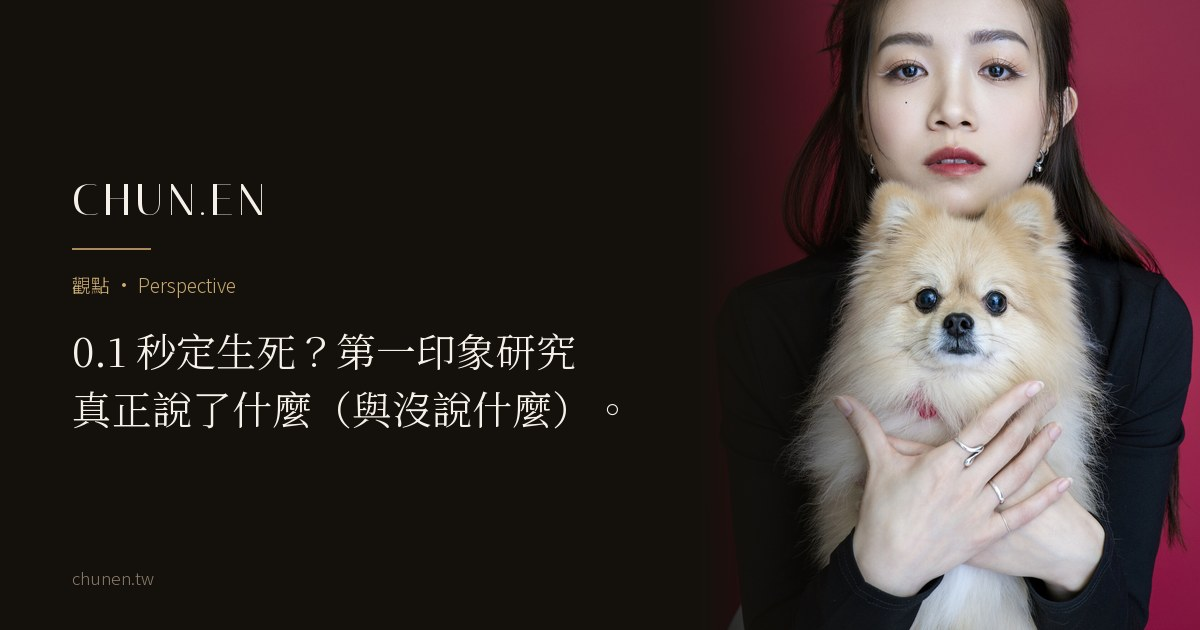
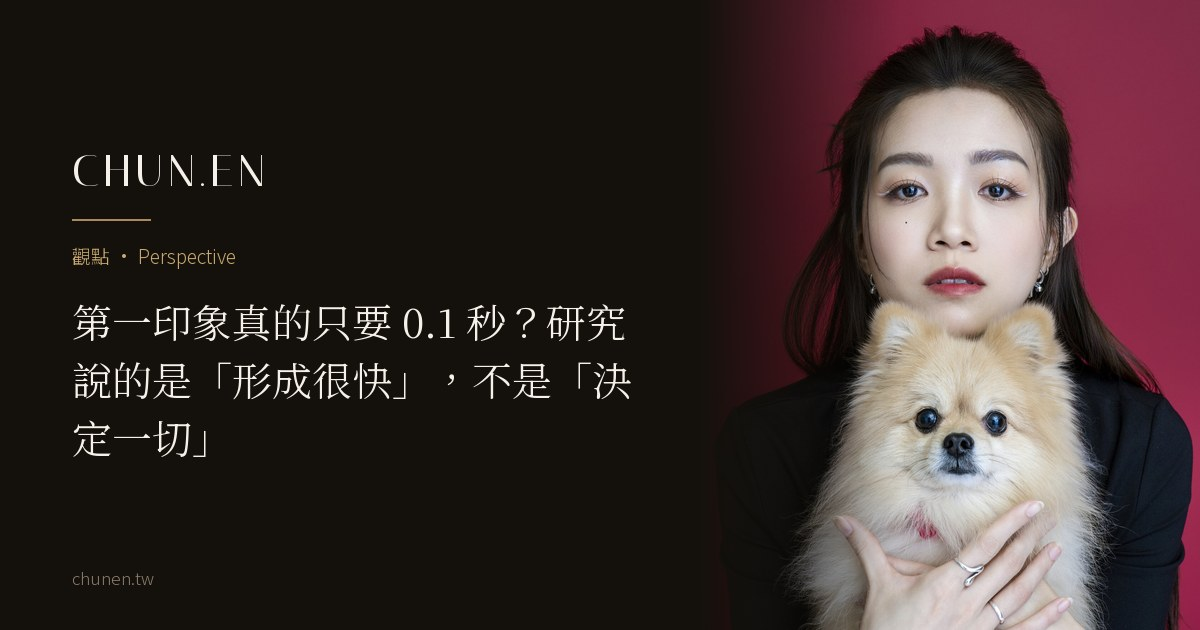
三篇換照片＋H1 斷行修＋第一印象內文白話化
- 真實溢價：hero 換 DSC09782（白棚留白坐姿，全幅）；H1 第二行 nowrap 分段
- 部署地圖：hero 換 DSC09139（米色外套正面）、內文圖換 09087（環境敘事），
  works/03 引用全清；H1 nowrap 分段（原第二行 20 字必折句中）
- 更新時機：hero 換 RWS04070（白襯衫托腮），works/25 引用清掉
- pricing：H1 nowrap 分段（明日上架前修）
- 第一印象：兩個清單全部去粗體改自然句、.73 補充段改成白話排名比喻、
  區辨力/月暈效應等學術語改日常說法、修半形逗號；og 卡重產對齊新 H1
- og/twitter/schema image 均指 16:9 版（2160×1215）

diff --git a/journal/first-impression-research.html b/journal/first-impression-research.html
@@ -97,31 +97,31 @@
 
         <h2>原始研究<em>真正說了什麼</em></h2>
         <p>2006 年，普林斯頓大學的 Janine Willis 與 Alexander Todorov 在《Psychological Science》發表了那份被引用至今的實驗（<a href="https://journals.sagepub.com/doi/10.1111/j.1467-9280.2006.01750.x" target="_blank" rel="noopener">原始論文連結</a>）。設計很簡單：讓受試者看陌生人的臉部照片，有些人只看 0.1 秒，有些人看 0.5 秒、1 秒，或不限時間，然後請他們評斷照片中人的可信度、能力、好感度等特質。</p>
-        <p>先看它怎麼做的，這決定了它能說到哪裡。</p>
-        <p>實驗用的是 70 位業餘演員的正面大頭照，35 男 35 女、20 到 30 歲，來自瑞典的 Karolinska 臉孔資料庫。<strong>所有人都穿同一件灰色 T 恤，沒有鬍子、沒有耳環、沒有眼鏡、沒有可見的妝容，表情中性。</strong>受試者是普林斯頓大學生共 245 人，每個人只評一種特質，五種特質分別是：吸引力、好感度、能力、可信度、攻擊性。曝光時間分成 0.1 秒、0.5 秒、1 秒，再與另一組不限時間觀看的人對照。</p>
+        <p>先看它是怎麼做的，才知道它能證明什麼、不能證明什麼。</p>
+        <p>實驗用的是 70 位業餘演員的正面大頭照，35 男 35 女、20 到 30 歲，來自瑞典的 Karolinska 臉孔資料庫。所有人都穿同一件灰色 T 恤，沒有鬍子、沒有耳環、沒有眼鏡、沒有可見的妝容，表情中性。受試者是普林斯頓大學生共 245 人，每個人只評一種特質，五種特質分別是：吸引力、好感度、能力、可信度、攻擊性。曝光時間分成 0.1 秒、0.5 秒、1 秒，再與另一組不限時間觀看的人對照。</p>
         <p>三個關鍵發現：</p>
         <ul>
-          <li><strong>0.1 秒足以形成判斷。</strong>只看 0.1 秒的人給出的評價，與不限時間慢慢看的人高度相關；而且延長曝光時間，這個相關性並沒有顯著提高。</li>
-          <li><strong>「可信度」是被判斷得最快的特質。</strong>只看 0.1 秒形成的評分，已經和不限時間觀看的整體評分相當接近，其中最接近的就是可信度，甚至高過研究者原本預期最高的吸引力。大腦最先問的問題是：這個人能信嗎？</li>
-          <li><strong>更多時間帶來的是信心與區辨，不是翻案。</strong>這一點常被轉述錯。從 0.1 秒到 0.5 秒，判斷確實有變，而且是<strong>整體變得更負面</strong>；從 0.5 秒到 1 秒，判斷才大致不再變動，增加的主要是信心。而看到 1 秒時，印象會變得更有區辨力：受試者開始把不同特質分開評價，而不是只有「順眼／不順眼」的粗略反應，同時吸引力帶來的月暈效應也減弱了。所以更準確的說法不是「第一眼永遠不變」，是早期印象很快成形，之後的時間用在讓它更有把握、也更細。</li>
+          <li>0.1 秒就足以形成判斷。只看 0.1 秒的人給出的評價，跟不限時間慢慢看的人差不多；時間拉長，這個一致性也沒有明顯提高。</li>
+          <li>可信度是被判斷得最快的。五種特質裡，0.1 秒的評分最接近慢慢看的結果的，就是可信度，甚至超過研究者原本以為會最快的吸引力。大腦最先問的是：這個人能信嗎？</li>
+          <li>多看幾秒，不會推翻第一眼。這一點常被講錯：從 0.1 秒到 0.5 秒，判斷確實會變，而且整體評得更嚴；從 0.5 秒到 1 秒就大致定下來，多出來的是把握。看滿 1 秒，人會開始把不同特質分開評，不再只有「順眼／不順眼」，長相好看帶來的整體加分也變弱。所以比較準確的說法是：第一眼很快成形，之後的時間是讓它更有把握、更細，不是重來。</li>
         </ul>
 
-        <p style="font-size:0.9em;color:var(--paper-dim);">研究資料補充：0.1 秒與不限時間評分的相關係數，可信度 .73、吸引力 .69、好感度 .59、能力與攻擊性各 .52。這裡的 .73 是相關係數（範圍 -1 到 +1），表示兩組評分的高低順序相當一致，不是「73% 的人覺得可信」，也不是判斷有七成三準確。</p>
+        <p style="font-size:0.9em;color:var(--paper-dim);">研究資料補充：0.1 秒與不限時間評分的相關係數，可信度 .73、吸引力 .69、好感度 .59、能力與攻擊性各 .52。白話說：讓一群人只看 0.1 秒，替這 70 張臉的可信度排出高低；再讓另一群人不限時間慢慢看、也排一次。兩份排名大致重疊：快看覺得比較可信的那些臉，慢看的人也覺得比較可信。.73 描述的就是這兩份排名有多接近（1 是完全一樣，0 是毫無關係），跟百分比無關。</p>
 
         <h2>同樣重要的：研究<em>沒說什麼</em></h2>
-        <p>誠實的解讀必須包含另一半。這份研究「沒有」證明的事，至少有三件：</p>
+        <p>另一半同樣重要。這份研究沒有證明的事，至少有三件：</p>
         <ul>
-          <li><strong>它沒說第一印象是「準的」。</strong>實驗測的是人們判斷的「一致性」，大家很快得出相似的印象，但印象一致不等於符合事實。0.1 秒讀到的是訊號，不是人格。</li>
-          <li><strong>它沒說印象永遠不能改變。</strong>實驗場景是看陌生人照片，不是長期共事。真實關係裡，實力與行為當然能改寫印象，只是要花上遠比 0.1 秒多的成本。</li>
-          <li><strong>它沒說外表決定一切。</strong>它說的是外表訊號「先發球」。開局落後可以逆轉,但你得先花力氣追平，才能開始得分。</li>
+          <li>它沒說第一印象是準的。實驗測的是大家的判斷一不一致：人們很快得出相似的印象，但一致不等於符合事實。0.1 秒讀到的是訊號，不是人格。</li>
+          <li>它沒說印象不能改變。實驗是看陌生人的照片，不是長期相處。真實關係裡，實力和行為當然能改寫印象，只是要花的時間遠遠不只 0.1 秒。</li>
+          <li>它沒說外表決定一切。它說的是外表的訊號先出手。開局落後可以追回來，但你得先花力氣追平，才輪得到得分。</li>
         </ul>
         <table>
           <thead><tr><th>這份研究可以支持</th><th>這份研究不能支持</th></tr></thead>
           <tbody>
-            <tr><td>看陌生人的臉 0.1 秒，就足以形成可測量的特質印象</td><td>第一印象是準的</td></tr>
-            <tr><td>0.1 秒的評分，與不限時間觀看的評分高度相關</td><td>第一印象永遠不會改變</td></tr>
+            <tr><td>看陌生人的臉 0.1 秒，就足以形成明確的印象</td><td>第一印象是準的</td></tr>
+            <tr><td>0.1 秒的評分，和慢慢看的結果大致相同</td><td>第一印象永遠不會改變</td></tr>
             <tr><td>五種特質裡，可信度形成得最快</td><td>照片能證明一個人真的可信</td></tr>
-            <tr><td>更多時間增加信心，也讓印象更有區辨力</td><td>商業成敗由一張照片決定</td></tr>
+            <tr><td>多看幾秒是更有把握、分得更細</td><td>商業成敗由一張照片決定</td></tr>
             <tr><td>標準化的臉孔照片足以觸發快速判斷</td><td>服裝、妝髮、姿態各自有多大效果</td></tr>
           </tbody>
         </table>

diff --git a/journal/portrait-deployment-map.html b/journal/portrait-deployment-map.html
@@ -13,16 +13,16 @@
   <link rel="canonical" href="https://chunen.tw/journal/portrait-deployment-map.html" />
   <meta property="og:title" content="一組照片的部署地圖：官網、LinkedIn、簡報、媒體各要哪一張？" />
   <meta property="og:description" content="照片的價值不在硬碟裡，在部署的位置上。拍完只是完成一半，放對地方才是資產。" />
-  <meta property="og:image" content="https://chunen.tw/assets/og/portrait-deployment-map-og.jpg" />
-  <meta property="og:image:width" content="1200" />
-  <meta property="og:image:height" content="630" />
+  <meta property="og:image" content="https://chunen.tw/assets/gallery/journal/portrait-deployment-map-hero-1400.jpg" />
+  <meta property="og:image:width" content="2160" />
+  <meta property="og:image:height" content="1215" />
   <meta property="og:url" content="https://chunen.tw/journal/portrait-deployment-map.html" />
   <meta property="og:type" content="article" />
   <meta property="og:locale" content="zh_TW" />
   <meta name="twitter:card" content="summary_large_image" />
   <meta name="twitter:title" content="一組照片的部署地圖" />
   <meta name="twitter:description" content="照片的價值不在硬碟裡，在部署的位置上。" />
-  <meta name="twitter:image" content="https://chunen.tw/assets/og/portrait-deployment-map-og.jpg" />
+  <meta name="twitter:image" content="https://chunen.tw/assets/gallery/journal/portrait-deployment-map-hero-1400.jpg" />
   <link rel="preconnect" href="https://fonts.googleapis.com" />
   <link rel="preconnect" href="https://fonts.gstatic.com" crossorigin />
   <link href="https://fonts.googleapis.com/css2?family=Italiana&family=Cormorant+Garamond:ital,wght@0,400;0,500;0,600;1,400;1,500&family=Noto+Serif+TC:wght@200;300;400;600&family=Noto+Sans+TC:wght@300;400;500&display=swap" rel="stylesheet" />
@@ -70,14 +70,14 @@
     <header style="padding: clamp(9rem, 16vh, 11rem) 0 clamp(2rem, 4vh, 3rem);">
       <div class="wrap article-wrap">
         <p class="hero-eyebrow rv">指南 · Guide</p>
-        <h1 class="rv rv-d1" style="font-weight: 300; font-size: clamp(1.9rem, 4.4vw, 3.2rem); line-height: 1.4; margin-top: 1rem;">一組照片的部署地圖：<br>官網、LinkedIn、簡報、媒體，<em style="font-style:normal;color:var(--gold-light);">各要哪一張</em>？</h1>
+        <h1 class="rv rv-d1" style="font-weight: 300; font-size: clamp(1.9rem, 4.4vw, 3.2rem); line-height: 1.4; margin-top: 1rem;">一組照片的部署地圖：<br><span style="white-space:nowrap;">官網、LinkedIn、</span><span style="white-space:nowrap;">簡報、媒體，</span><span style="white-space:nowrap;"><em style="font-style:normal;color:var(--gold-light);">各要哪一張</em>？</span></h1>
         <p class="article-meta rv rv-d2">CHUN.EN 觀點 · 2026 · 閱讀約 6 分鐘</p>
       </div>
     </header>
 
     <div class="wrap article-wrap">
-      <div class="jcard-media rv" style="aspect-ratio: 16/9; overflow: hidden; margin-bottom: clamp(2.5rem, 6vh, 4rem);">
-        <img src="../assets/gallery/works/03-1400.jpg" alt="可跨場景部署的商業形象照組" style="width:100%;height:100%;object-fit:cover;object-position:center 20%;" />
+      <div class="jcard-media rv" style="aspect-ratio: auto; max-width: 620px; margin: 0 auto clamp(2.5rem, 6vh, 4rem);">
+        <img src="../assets/gallery/journal/portrait-deployment-map-hero-full-1400.jpg" alt="米色立領外套的商務形象照，正面直視鏡頭（CHUN.EN 實際拍攝作品）" style="width:100%;height:auto;display:block;" />
       </div>
 
       <div class="keypoints rv">
@@ -122,7 +122,7 @@
         <p>這也是為什麼部署要在<strong>拍攝之前</strong>就規劃：先盤點你會被看見的場景，回推需要哪些構圖與版本，拍攝當天一次拍齊。拍完才想「這張能用在哪」，順序就反了，這也是<a href="after-the-shoot.html">拍完形象照之後：多數照片再也沒有被打開過</a>的原因。</p>
 
         <figure class="article-fig crop45">
-          <img src="../assets/gallery/works/03-1400.jpg" alt="同一次定位下拍出的多場景部署照片組" loading="lazy" />
+          <img src="../assets/gallery/journal/portrait-deployment-map-set-1400.jpg" alt="同一次定位下的另一個場景：長凳坐姿與環境敘事" loading="lazy" />
           <figcaption>同一次定位、同一種光線語言，拍出各司其職的版本，這是「整組交付」和「拍很多張」的差別。（CHUN.EN 實際拍攝作品）</figcaption>
         </figure>
 
@@ -189,7 +189,7 @@
     "@type": "Article",
     "headline": "一組照片的部署地圖：官網、LinkedIn、簡報、媒體各要哪一張？",
     "description": "官網要敘事、LinkedIn 要一致、簡報要留白、媒體要高解析，常見應用版位的部署邏輯，把一組形象照的價值用滿。",
-    "image": "https://chunen.tw/assets/gallery/works/03-1400.jpg",
+    "image": "https://chunen.tw/assets/gallery/journal/portrait-deployment-map-hero-1400.jpg",
     "author": {"@type": "Person", "@id": "https://chunen.tw/author/zoey-wu.html#zoey", "name": "吳惇恩", "alternateName": "Zoey Wu", "jobTitle": "Founder & Brand Director", "image": "https://chunen.tw/assets/images/zoey-author-640.jpg", "url": "https://chunen.tw/author/zoey-wu.html"},
     "publisher": {"@type": "Organization", "name": "CHUN.EN 形象美學", "logo": {"@type": "ImageObject", "url": "https://chunen.tw/icon-512.png"}},
     "datePublished": "2026-07-18",

diff --git a/journal/authenticity-premium.html b/journal/authenticity-premium.html
@@ -13,16 +13,16 @@
   <link rel="canonical" href="https://chunen.tw/journal/authenticity-premium.html" />
   <meta property="og:title" content="AI 時代的真實溢價：真正值錢的，是不必一再被確認" />
   <meta property="og:description" content="精緻變便宜之後，一張照片不再能單獨證明一個人。觀看習慣也變了：先懷疑，再相信。" />
-  <meta property="og:image" content="https://chunen.tw/assets/og/authenticity-premium-og.jpg" />
-  <meta property="og:image:width" content="1200" />
-  <meta property="og:image:height" content="630" />
+  <meta property="og:image" content="https://chunen.tw/assets/gallery/journal/authenticity-premium-hero-1400.jpg" />
+  <meta property="og:image:width" content="2160" />
+  <meta property="og:image:height" content="1215" />
   <meta property="og:url" content="https://chunen.tw/journal/authenticity-premium.html" />
   <meta property="og:type" content="article" />
   <meta property="og:locale" content="zh_TW" />
   <meta name="twitter:card" content="summary_large_image" />
   <meta name="twitter:title" content="AI 時代的真實溢價：真正值錢的，是不必一再被確認" />
   <meta name="twitter:description" content="精緻變便宜之後，一張照片不再能單獨證明一個人。" />
-  <meta name="twitter:image" content="https://chunen.tw/assets/og/authenticity-premium-og.jpg" />
+  <meta name="twitter:image" content="https://chunen.tw/assets/gallery/journal/authenticity-premium-hero-1400.jpg" />
   <link rel="preconnect" href="https://fonts.googleapis.com" />
   <link rel="preconnect" href="https://fonts.gstatic.com" crossorigin />
   <link href="https://fonts.googleapis.com/css2?family=Italiana&family=Cormorant+Garamond:ital,wght@0,400;0,500;0,600;1,400;1,500&family=Noto+Serif+TC:wght@200;300;400;600&family=Noto+Sans+TC:wght@300;400;500&display=swap" rel="stylesheet" />
@@ -70,14 +70,14 @@
     <header style="padding: clamp(9rem, 16vh, 11rem) 0 clamp(2rem, 4vh, 3rem);">
       <div class="wrap article-wrap">
         <p class="hero-eyebrow rv">趨勢 · Trend</p>
-        <h1 class="rv rv-d1" style="font-weight: 300; font-size: clamp(1.9rem, 4.4vw, 3.2rem); line-height: 1.4; margin-top: 1rem;">AI 時代的真實溢價：<br>真正值錢的，<em style="font-style:normal;color:var(--gold-light);">是不必一再被確認</em></h1>
+        <h1 class="rv rv-d1" style="font-weight: 300; font-size: clamp(1.9rem, 4.4vw, 3.2rem); line-height: 1.4; margin-top: 1rem;">AI 時代的真實溢價：<br><span style="white-space:nowrap;">真正值錢的，</span><span style="white-space:nowrap;"><em style="font-style:normal;color:var(--gold-light);">是不必一再被確認</em></span></h1>
         <p class="article-meta rv rv-d2">CHUN.EN 觀點 · 2026 · 閱讀約 5 分鐘</p>
       </div>
     </header>
 
     <div class="wrap article-wrap">
-      <div class="jcard-media rv" style="aspect-ratio: 16/9; overflow: hidden; margin-bottom: clamp(2.5rem, 6vh, 4rem);">
-        <img src="../assets/gallery/journal/ai-real-signal-1400.jpg" alt="商業人像中的光線、姿態與人物神情" style="width:100%;height:100%;object-fit:cover;object-position:center 20%;" />
+      <div class="jcard-media rv" style="aspect-ratio: auto; max-width: 620px; margin: 0 auto clamp(2.5rem, 6vh, 4rem);">
+        <img src="../assets/gallery/journal/authenticity-premium-hero-full-1400.jpg" alt="白棚大量留白中的商務形象照，人物坐姿自在（CHUN.EN 實際拍攝作品）" style="width:100%;height:auto;display:block;" />
       </div>
 
       <div class="keypoints rv">
@@ -191,7 +191,7 @@
     "@type": "Article",
     "headline": "AI 時代的真實溢價：真正值錢的，是不必一再被確認",
     "description": "當生成讓精緻變便宜，一張照片就不再能單獨證明一個人。觀看習慣也變了：先懷疑，再相信。真正升值的不是「看起來像真的」，是照片、內容、經歷與本人之間不需要被反覆確認的一致。",
-    "image": "https://chunen.tw/assets/gallery/journal/ai-real-signal-1400.jpg",
+    "image": "https://chunen.tw/assets/gallery/journal/authenticity-premium-hero-1400.jpg",
     "author": {"@type": "Person", "@id": "https://chunen.tw/author/zoey-wu.html#zoey", "name": "吳惇恩", "alternateName": "Zoey Wu", "jobTitle": "Founder & Brand Director", "image": "https://chunen.tw/assets/images/zoey-author-640.jpg", "url": "https://chunen.tw/author/zoey-wu.html"},
     "publisher": {"@type": "Organization", "name": "CHUN.EN 形象美學", "logo": {"@type": "ImageObject", "url": "https://chunen.tw/icon-512.png"}},
     "datePublished": "2026-07-18",

diff --git a/journal/when-to-update-your-portrait.html b/journal/when-to-update-your-portrait.html
@@ -13,16 +13,16 @@
   <link rel="canonical" href="https://chunen.tw/journal/when-to-update-your-portrait.html" />
   <meta property="og:title" content="形象照多久該更新一次？五個該重拍的訊號" />
   <meta property="og:description" content="照片的過期不是時間決定的，是落差決定的，與本人的落差，與角色的落差。" />
-  <meta property="og:image" content="https://chunen.tw/assets/og/when-to-update-your-portrait-og.jpg" />
-  <meta property="og:image:width" content="1200" />
-  <meta property="og:image:height" content="630" />
+  <meta property="og:image" content="https://chunen.tw/assets/gallery/journal/when-to-update-your-portrait-hero-1400.jpg" />
+  <meta property="og:image:width" content="2160" />
+  <meta property="og:image:height" content="1215" />
   <meta property="og:url" content="https://chunen.tw/journal/when-to-update-your-portrait.html" />
   <meta property="og:type" content="article" />
   <meta property="og:locale" content="zh_TW" />
   <meta name="twitter:card" content="summary_large_image" />
   <meta name="twitter:title" content="形象照多久該更新一次？五個該重拍的訊號" />
   <meta name="twitter:description" content="照片的過期不是時間決定的，是落差決定的，與本人的落差，與角色的落差。" />
-  <meta name="twitter:image" content="https://chunen.tw/assets/og/when-to-update-your-portrait-og.jpg" />
+  <meta name="twitter:image" content="https://chunen.tw/assets/gallery/journal/when-to-update-your-portrait-hero-1400.jpg" />
   <link rel="preconnect" href="https://fonts.googleapis.com" />
   <link rel="preconnect" href="https://fonts.gstatic.com" crossorigin />
   <link href="https://fonts.googleapis.com/css2?family=Italiana&family=Cormorant+Garamond:ital,wght@0,400;0,500;0,600;1,400;1,500&family=Noto+Serif+TC:wght@200;300;400;600&family=Noto+Sans+TC:wght@300;400;500&display=swap" rel="stylesheet" />
@@ -76,8 +76,8 @@
     </header>
 
     <div class="wrap article-wrap">
-      <div class="jcard-media rv" style="aspect-ratio: 16/9; overflow: hidden; margin-bottom: clamp(2.5rem, 6vh, 4rem);">
-        <img src="../assets/gallery/works/25-1400.jpg" alt="形象照的更新時機" style="width:100%;height:100%;object-fit:cover;object-position:center 20%;" />
+      <div class="jcard-media rv" style="aspect-ratio: auto; max-width: 620px; margin: 0 auto clamp(2.5rem, 6vh, 4rem);">
+        <img src="../assets/gallery/journal/when-to-update-your-portrait-hero-full-1400.jpg" alt="白襯衫托腮微笑的親和商務形象照（CHUN.EN 實際拍攝作品）" style="width:100%;height:auto;display:block;" />
       </div>
 
       <div class="keypoints rv">
@@ -173,7 +173,7 @@
     "@type": "Article",
     "headline": "形象照多久該更新一次？五個該重拍的訊號",
     "description": "照片的過期不是時間決定的，是落差決定的，與本人的落差，與角色的落差。",
-    "image": "https://chunen.tw/assets/gallery/works/25-1400.jpg",
+    "image": "https://chunen.tw/assets/gallery/journal/when-to-update-your-portrait-hero-1400.jpg",
     "author": {"@type": "Person", "@id": "https://chunen.tw/author/zoey-wu.html#zoey", "name": "吳惇恩", "alternateName": "Zoey Wu", "jobTitle": "Founder & Brand Director", "image": "https://chunen.tw/assets/images/zoey-author-640.jpg", "url": "https://chunen.tw/author/zoey-wu.html"},
     "publisher": {"@type": "Organization", "name": "CHUN.EN 形象美學", "logo": {"@type": "ImageObject", "url": "https://chunen.tw/icon-512.png"}},
     "datePublished": "2026-07-16",

diff --git a/journal/image-consultant-pricing.html b/journal/image-consultant-pricing.html
@@ -68,7 +68,7 @@
     <header style="padding: clamp(9rem, 16vh, 11rem) 0 clamp(2rem, 4vh, 3rem);">
       <div class="wrap article-wrap">
         <p class="hero-eyebrow rv">指南 · Guide</p>
-        <h1 class="rv rv-d1" style="font-weight: 300; font-size: clamp(1.9rem, 4.4vw, 3.2rem); line-height: 1.4; margin-top: 1rem;">形象顧問收費怎麼算？<br>三種計價邏輯、<em style="font-style:normal;color:var(--gold-light);">服務差異與適合對象</em></h1>
+        <h1 class="rv rv-d1" style="font-weight: 300; font-size: clamp(1.9rem, 4.4vw, 3.2rem); line-height: 1.4; margin-top: 1rem;">形象顧問收費怎麼算？<br><span style="white-space:nowrap;">三種計價邏輯、</span><span style="white-space:nowrap;"><em style="font-style:normal;color:var(--gold-light);">服務差異與適合對象</em></span></h1>
         <p class="article-meta rv rv-d2">CHUN.EN 觀點 · 2026 · 閱讀約 5 分鐘</p>
       </div>
     </header>
